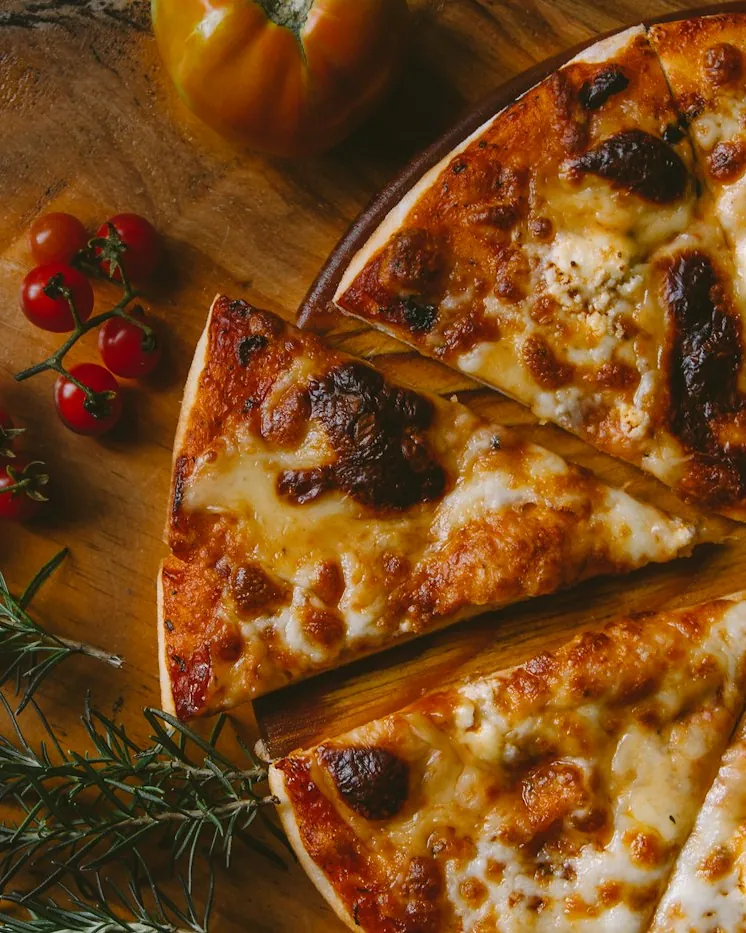
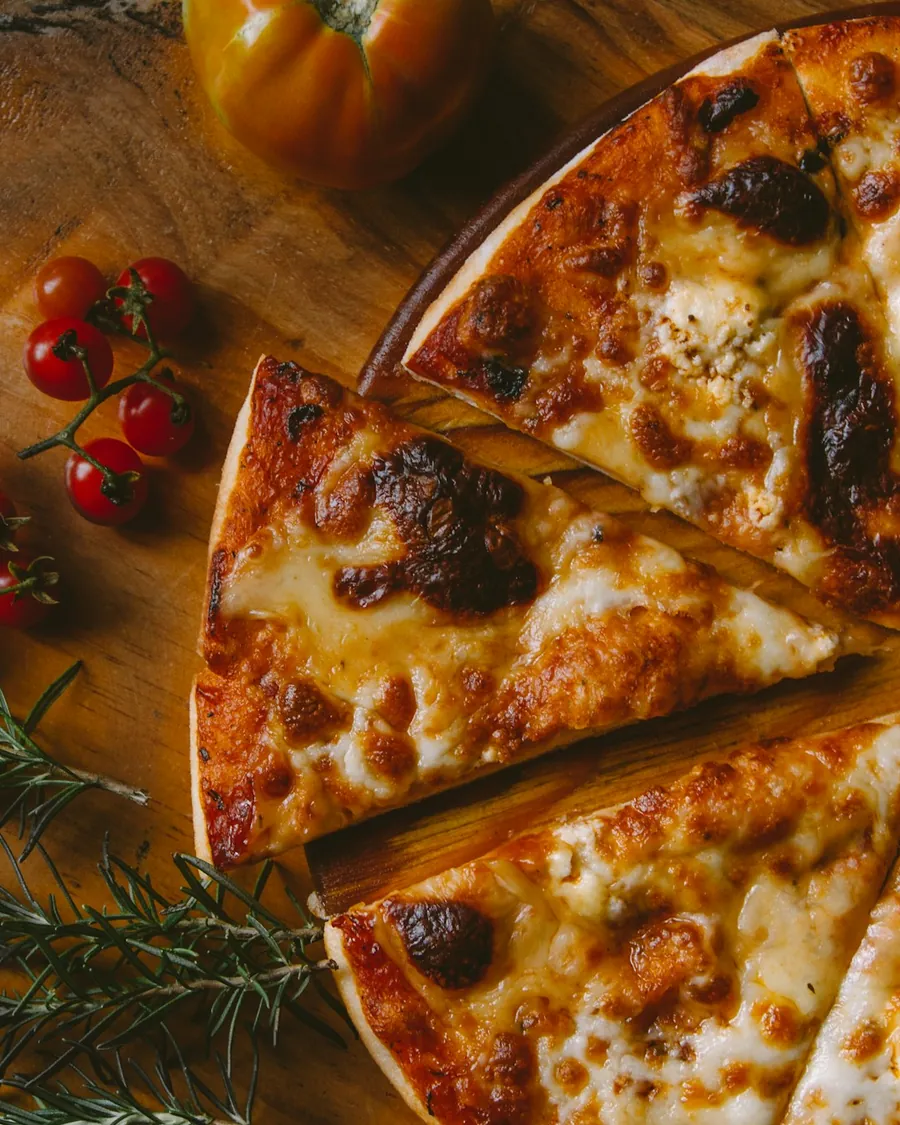
Replace blurry/off-topic images with sharp, on-topic Unsplash photos; add CREDITS.md

Changed region(s): [[0.2466, 0.7149, 0.2775, 0.746]]

diff --git a/index.html b/index.html
@@ -32,7 +32,7 @@
   <link rel="preload" as="style" href="https://fonts.googleapis.com/css2?family=Great+Vibes&family=Playfair+Display:ital,wght@0,400;0,500;0,600;1,400;1,500&family=Montserrat:ital,wght@0,400;0,500;0,600;1,400&display=swap">
   <link rel="stylesheet" href="https://fonts.googleapis.com/css2?family=Great+Vibes&family=Playfair+Display:ital,wght@0,400;0,500;0,600;1,400;1,500&family=Montserrat:ital,wght@0,400;0,500;0,600;1,400&display=swap">
   <link rel="preload" as="image" href="assets/images/cristel-hero.webp" imagesrcset="assets/images/cristel-hero-800.webp 800w, assets/images/cristel-hero.webp 1400w" imagesizes="(max-width: 899px) 90vw, 45vw">
-  <link rel="stylesheet" href="css/styles.css?v=2">
+  <link rel="stylesheet" href="css/styles.css?v=3">
   <script>document.documentElement.classList.add('js');</script>
 
   <script type="application/ld+json">
@@ -131,7 +131,7 @@
               alt="Cristel Monrose looking over her shoulder and smiling, with pink hydrangeas behind her.">
           </figure>
           <figure class="hero-prop" aria-hidden="true">
-            <img src="assets/images/prop-lemons-crop.webp" width="210" height="210" alt="">
+            <img src="assets/images/hero-fresh-pasta.webp" width="420" height="420" alt="">
           </figure>
           <p class="hero-vertical" aria-hidden="true">Celebrities · Cooking · Real Talk</p>
           <div class="hero-badge">
@@ -194,7 +194,7 @@
     <section class="quote-band" aria-label="A word from Cristel">
       <div class="wrap quote-grid">
         <figure class="quote-prop reveal" aria-hidden="true">
-          <img src="assets/images/prop-hydrangeas-crop.webp" width="235" height="462" alt="" loading="lazy" decoding="async">
+          <img src="assets/images/quote-rose-glasses.webp" width="720" height="900" alt="" loading="lazy" decoding="async">
         </figure>
         <blockquote class="reveal">
           <p>A red lip and a glass of rosé fix almost anything.</p>
@@ -256,9 +256,9 @@
             <p class="lede">The same warmth you see on <em>Buon Appetito with Cristel</em>, served at your gathering. Tell us about your occasion, and we’ll be in touch to talk through the menu, the setting and the details.</p>
             <a class="btn btn-primary" href="#catering-form">Request catering</a>
           </div>
-          <div class="catering-visual reveal" aria-hidden="true">
-            <figure class="cat-img cat-img-a"><img src="assets/images/prop-hydrangeas-crop.webp" width="235" height="462" alt="" loading="lazy" decoding="async"></figure>
-            <figure class="cat-img cat-img-b"><img src="assets/images/prop-lemons-crop.webp" width="210" height="210" alt="" loading="lazy" decoding="async"></figure>
+          <div class="catering-visual reveal">
+            <figure class="cat-img cat-img-a"><img src="assets/images/catering-grazing-table.webp" width="900" height="1125" alt="Stock photo: an overhead view of a grazing table with cheeses, figs, grapes, crackers and roasted vegetables." loading="lazy" decoding="async"></figure>
+            <figure class="cat-img cat-img-b"><img src="assets/images/catering-chef-plating.webp" width="640" height="640" alt="Stock photo: a chef in whites finishing plates for guests." loading="lazy" decoding="async"></figure>
             <span class="flag-stripe" aria-hidden="true"></span>
           </div>
         </div>
@@ -266,21 +266,25 @@
         <h3 class="sr-only">Events Cristel can cater</h3>
         <ul class="event-types">
           <li class="reveal">
+            <figure class="event-img"><img src="assets/images/event-private-dinner.webp" width="720" height="540" alt="Stock photo: a candlelit dinner table set with plates, glasses and flowers." loading="lazy" decoding="async"></figure>
             <span class="event-num" aria-hidden="true">i.</span>
             <h4>Private dinners</h4>
             <p>An intimate meal at home, made for the people around your table.</p>
           </li>
           <li class="reveal">
+            <figure class="event-img"><img src="assets/images/event-celebration.webp" width="720" height="540" alt="Stock photo: friends raising their glasses in a toast around a dinner table." loading="lazy" decoding="async"></figure>
             <span class="event-num" aria-hidden="true">ii.</span>
             <h4>Celebrations</h4>
             <p>Birthdays, anniversaries, showers and the milestones worth raising a glass to.</p>
           </li>
           <li class="reveal">
+            <figure class="event-img"><img src="assets/images/event-corporate.webp" width="720" height="540" alt="Stock photo: a long banquet table set with white linens, glassware and a floral centerpiece." loading="lazy" decoding="async"></figure>
             <span class="event-num" aria-hidden="true">iii.</span>
             <h4>Corporate events</h4>
             <p>Team dinners, client gatherings and brand events with a little Italian glamour.</p>
           </li>
           <li class="reveal">
+            <figure class="event-img"><img src="assets/images/event-holiday.webp" width="720" height="540" alt="Stock photo: a festive table with candles, citrus and a baked dish ready to share." loading="lazy" decoding="async"></figure>
             <span class="event-num" aria-hidden="true">iv.</span>
             <h4>Holidays &amp; seasonal gatherings</h4>
             <p>Family-style tables for the days when everyone comes home.</p>
@@ -433,7 +437,7 @@
       </div>
     </div>
     <div class="wrap">
-      <p class="footer-fine">Preview site for layout and brand review. Recipe and fashion cards are sample layouts, not Cristel’s published dishes or official show looks. Official brand photography is used with permission of the brand guidelines. Other stills are stock photos, credited in the data file.</p>
+      <p class="footer-fine">Preview site for layout and brand review. Recipe and fashion cards are sample layouts, not Cristel’s published dishes or official show looks. Photos of Cristel are official brand photography used with permission of the brand guidelines. All other photos are Unsplash stock images, credited in CREDITS.md.</p>
     </div>
   </footer>
 
@@ -447,7 +451,7 @@
     </div>
   </dialog>
 
-  <script src="js/data.js?v=2"></script>
-  <script src="js/app.js?v=2"></script>
+  <script src="js/data.js?v=3"></script>
+  <script src="js/app.js?v=3"></script>
 </body>
 </html>

diff --git a/js/data.js b/js/data.js
@@ -7,6 +7,7 @@
  * - Fashion "Shop the look" buttons use href: "#" and affiliate: "placeholder-..."
  *   until a brand partnership is live. Then set href to the affiliate URL
  *   and a stable affiliate id.
+ * - Photo sources and photographers are listed in CREDITS.md.
  * - Do not invent biographical facts. About copy is drawn from the official
  *   Cristel Monrose brand guidelines (November 2026).
  */
@@ -21,6 +22,7 @@ window.CRISTEL_DATA = {
       section: "showcase",
       diet: "Sample layout",
       image: "assets/images/dish-herb-pasta.webp",
+      imageSmall: "assets/images/dish-herb-pasta-800.webp",
       imageAlt: "Sample stock photo: three plates of herb pasta and glasses of red wine on a white tablecloth. Not a photo from the show.",
       excerpt: "Recipe coming soon — sample layout. Replace this card with one of Cristel’s pasta recipes.",
       credit: "Stock photo via Unsplash, used only to show the layout.",
@@ -118,8 +120,8 @@ window.CRISTEL_DATA = {
       timeNote: "sample time",
       section: "vegan",
       diet: "Vegan · sample",
-      image: "assets/images/dish-garden-salad.webp",
-      imageAlt: "Sample stock photo: a colorful chopped salad with avocado and fresh vegetables. Not a photo from the show.",
+      image: "assets/images/dish-green-salad.webp",
+      imageAlt: "Sample stock photo: a green salad of leaves and shaved cucumber in a wooden bowl with two spoons. Not a photo from the show.",
       excerpt: "Recipe coming soon — sample layout for a vegan, no-meat option.",
       credit: "Stock photo via Unsplash, used only to show the layout.",
       placeholder: true
@@ -132,8 +134,8 @@ window.CRISTEL_DATA = {
       timeNote: "sample time",
       section: "vegan",
       diet: "Meatless · sample",
-      image: "assets/images/dish-tomato-rotini.webp",
-      imageAlt: "Sample stock photo: rotini with tomatoes and basil on a white wooden table. Not a photo from the show.",
+      image: "assets/images/dish-tomato-basil-rotini.webp",
+      imageAlt: "Sample stock photo: a plate of rotini with tomato and fresh basil leaves. Not a photo from the show.",
       excerpt: "Recipe coming soon — sample layout for a meatless pasta.",
       credit: "Stock photo via Unsplash, used only to show the layout.",
       placeholder: true
@@ -144,7 +146,7 @@ window.CRISTEL_DATA = {
       id: "sample-studio-heels",
       title: "Studio heels",
       titlePrefix: "Sample look",
-      image: "assets/images/look-heels.jpg",
+      image: "assets/images/look-heels.webp",
       imageAlt: "Sample stock photo: a pair of cream pointed heels by a window. Not a photo of an outfit from the show.",
       note: "Placeholder for an accessory or outfit from Buon Appetito with Cristel. Replace with the real look, notes, and affiliate links.",
       items: [
@@ -157,28 +159,28 @@ window.CRISTEL_DATA = {
       id: "sample-gold-hour",
       title: "Gold hour",
       titlePrefix: "Sample look",
-      image: "assets/images/look-gold-hoops.webp",
-      imageAlt: "Detail from Cristel Monrose’s official brand photography: a gold hoop earring and a gold chain at the neck. Used here as a placeholder for a jewelry look, not a confirmed show outfit.",
+      image: "assets/images/look-gold-hoops-flatlay.webp",
+      imageAlt: "Sample stock photo: a pair of gold hoop earrings resting on a pink ribbed dish. Not jewelry from the show.",
       note: "Placeholder for jewelry worn on the show — hoops, chains, or a daily gold piece. Replace with the real look and affiliate links.",
       items: [
         { name: "Gold hoop earrings", href: "#", affiliate: "placeholder-hoops" },
         { name: "Everyday gold chain", href: "#", affiliate: "placeholder-chain" }
       ],
-      credit: "Detail from official Cristel Monrose brand photography.",
+      credit: "Stock photo via Unsplash, used only to show the layout.",
       placeholder: true
     },
     {
       id: "sample-red-lip",
       title: "Red lip, rosé night",
       titlePrefix: "Sample look",
-      image: "assets/images/look-lemons.webp",
-      imageAlt: "Lemons and pink hydrangeas in a glass vase, from Cristel Monrose’s official brand photography. Used here as a placeholder for a beauty and table look, not a confirmed show outfit.",
+      image: "assets/images/look-red-lip.webp",
+      imageAlt: "Sample stock photo: a red lipstick in a gold case with dried rose petals and a gold chain. Not a product from the show.",
       note: "Placeholder for a beauty and table look from the show. Replace with the real products, notes, and affiliate links.",
       items: [
         { name: "A perfect red lip", href: "#", affiliate: "placeholder-lipstick" },
         { name: "A glass of rosé", href: "#", affiliate: "placeholder-wine" }
       ],
-      credit: "Detail from official Cristel Monrose brand photography.",
+      credit: "Stock photo via Unsplash, used only to show the layout.",
       placeholder: true
     }
   ]

diff --git a/css/styles.css b/css/styles.css
@@ -531,3 +531,29 @@ a { color: var(--red-wine); text-underline-offset: 0.2em; text-decoration-thickn
   .js .dishes-arch > .reveal, .js .looks > .reveal { opacity: 1; transform: none; }
 }
 @media (max-width: 759px) { p.rail-hint { display: flex; } }
+
+/* ---- v3: real photography for catering events ---- */
+.event-img { overflow: hidden; background: var(--rose-soft); }
+.event-img img { width: 100%; height: 100%; object-fit: cover; transition: transform 1.1s var(--ease); }
+.event-types li:hover .event-img img { transform: scale(1.05); }
+@media (max-width: 1099px) {
+  .event-types li { grid-template-columns: 2.25rem minmax(0, 1fr) 6.5rem; column-gap: 1rem; align-items: start; }
+  .event-num { grid-column: 1; grid-row: 1 / span 2; }
+  .event-types h4 { grid-column: 2; grid-row: 1; }
+  .event-types p { grid-column: 2; grid-row: 2; }
+  .event-img { grid-column: 3; grid-row: 1 / span 2; aspect-ratio: 1; border-radius: 50%; }
+}
+@media (min-width: 1100px) {
+  .event-types li { border-top: 0; padding-top: 0; }
+  .event-img { aspect-ratio: 4 / 3; margin-bottom: 1.1rem; }
+  .event-num { border-top: 1px solid var(--red-wine); padding-top: .9rem; }
+}
+.catering-visual { max-width: 27rem; min-height: 23rem; }
+.cat-img-a { width: 66%; }
+.cat-img-b { width: 52%; }
+@media (min-width: 900px) { .catering-visual { max-width: 32rem; min-height: 33rem; } }
+.about-visual { max-width: 28rem; }
+.event-types li { align-content: start; }
+@media (max-width: 899px) {
+  .dishes-editorial > .dish:not(.dish-feature) .link-btn { font-size: .66rem; letter-spacing: .1em; white-space: nowrap; }
+}

diff --git a/js/app.js b/js/app.js
@@ -54,6 +54,8 @@
     var imgWrap = el("div", { class: "dish-media" });
     imgWrap.appendChild(el("img", {
       src: recipe.image,
+      srcset: recipe.imageSmall ? recipe.imageSmall + " 800w, " + recipe.image + " 1400w" : null,
+      sizes: recipe.imageSmall ? "(max-width: 899px) 92vw, 58vw" : null,
       alt: recipe.imageAlt,
       width: "900",
       height: "1125",

diff --git a/CREDITS.md b/CREDITS.md
@@ -1,0 +1,28 @@
+# Image credits
+
+Photos of **Cristel Monrose** (`cristel-hero*.webp`, `cristel-about.webp`, `og-cover.*`) are official brand photography from the *Cristel Monrose — Brand Guidelines* (v1.0, November 2026).
+
+All other photos are from **Unsplash** and are used under the [Unsplash License](https://unsplash.com/license) (free to use, no permission needed; credit given here as a courtesy). They are downloaded and self-hosted as optimized WebP files in `assets/images/`; nothing is hotlinked. Recipe and fashion photos are **sample layout images only**, not dishes or looks from *Buon Appetito with Cristel*. Catering photos are illustrative stock photos, not photos of Cristel’s events.
+
+| Section | File | Shows | Photographer | Source |
+|---|---|---|---|---|
+| Hero (round accent) | `hero-fresh-pasta.webp` | Fresh tagliatelle nests with eggs and flour | [Margaret Jaszowska](https://unsplash.com/@margaret_jaszowska) | [Unsplash](https://unsplash.com/photos/white-pasta-on-stainless-steel-bowl-z2BD82uNN_A) |
+| Recipes: Herb pasta at the table (sample) | `dish-herb-pasta.webp, dish-herb-pasta-800.webp` | Three plates of pasta with red wine | [Brooke Lark](https://unsplash.com/@brookelark) | [Unsplash](https://unsplash.com/photos/three-round-white-plates-with-pasta-near-two-glass-cuups--F_5g8EEHYE) |
+| Recipes: Rosemary pizza al taglio (sample) | `dish-rosemary-pizza.webp` | Pizza with cherry tomatoes and rosemary | [Ivan Torres](https://unsplash.com/@iavnt) | [Unsplash](https://unsplash.com/photos/cheese-pizza-with-tomatoes-and-rosemary-MQUqbmszGGM) |
+| Recipes: Berry lattice tarts (sample) | `dish-berry-tarts.webp` | Two berry lattice pies | [Brooke Lark](https://unsplash.com/@brookelark) | [Unsplash](https://unsplash.com/photos/baked-pie-near-white-ceramic-teapot-of0pMsWApZE) |
+| Quote band | `quote-rose-glasses.webp` | Glasses of rosé wine from above | [Corina Rainer](https://unsplash.com/@corina_rainer_) | [Unsplash](https://unsplash.com/photos/a-group-of-gold-coins-Sv-eBEGLYhM) |
+| 10 Minutes or Less: Tomato and ricotta toast (sample) | `dish-tomato-toast.webp` | Toast with ricotta and tomatoes | [Calum Lewis](https://unsplash.com/@calumlewis) | [Unsplash](https://unsplash.com/photos/dish-with-tomato-salad-toppings-rPkgYDh2bmo) |
+| 10 Minutes or Less: Chopped garden salad (sample) | `dish-garden-salad.webp` | Chopped vegetable salad | [Nadine Primeau](https://unsplash.com/@nadineprimeau) | [Unsplash](https://unsplash.com/photos/close-up-photo-of-vegetable-salad--ftWfohtjNw) |
+| 10 Minutes or Less: Cherry tomato rotini (sample) | `dish-tomato-rotini.webp` | Rotini with cherry tomatoes and basil | [Aleksandra Tanasiienko](https://unsplash.com/@tasikola_pl) | [Unsplash](https://unsplash.com/photos/pasta-with-sauce-on-white-ceramic-plate-0y6eMd8vevA) |
+| Vegan & Meatless: Market vegetable bowl (sample) | `dish-market-bowl.webp` | Vegan vegetable and chickpea bowl | [Anna Pelzer](https://unsplash.com/@annapelzer) | [Unsplash](https://unsplash.com/photos/bowl-of-vegetable-salads-IGfIGP5ONV0) |
+| Vegan & Meatless: Everyday green salad (sample) | `dish-green-salad.webp` | Green salad in a wooden bowl | [Mads Eneqvist](https://unsplash.com/@madseneqvist) | [Unsplash](https://unsplash.com/photos/a-wooden-bowl-filled-with-a-salad-and-two-spoons-3YRxJW2GQCc) |
+| Vegan & Meatless: Tomato basil rotini (sample) | `dish-tomato-basil-rotini.webp` | Rotini with tomato and basil | [Divani](https://unsplash.com/@heydivani) | [Unsplash](https://unsplash.com/photos/pasta-dish-on-white-ceramic-plate-s0duM7x1yuA) |
+| Fashion: Look 1, Studio heels (sample) | `look-heels.webp` | Cream pointed heels | [Emily Pottiger](https://unsplash.com/@anadventure) | [Unsplash](https://unsplash.com/photos/white-textured-high-heeled-pumps-Zx76sbAndc0) |
+| Fashion: Look 2, Gold hour (sample) | `look-gold-hoops-flatlay.webp` | Gold hoop earrings on a pink dish | [Daihana Monares](https://unsplash.com/@daihana) | [Unsplash](https://unsplash.com/photos/gold-and-silver-rings-on-pink-and-white-striped-textile-oWFPDjxuyUM) |
+| Fashion: Look 3, Red lip, rosé night (sample) | `look-red-lip.webp` | Red lipstick with rose petals and a gold chain | [Anastasia Anastasia](https://unsplash.com/@anastasia3385437) | [Unsplash](https://unsplash.com/photos/gold-and-red-lipstick-on-red-textile-7TEIejvt0rU) |
+| Catering (arch) | `catering-grazing-table.webp` | Grazing table from above | [Brooke Lark](https://unsplash.com/@brookelark) | [Unsplash](https://unsplash.com/photos/flat-lay-photography-of-variety-of-fruits-RrzeCGujVfU) |
+| Catering (round) | `catering-chef-plating.webp` | Chef plating dishes for guests | [Lucas Law](https://unsplash.com/@lucaslaw__) | [Unsplash](https://unsplash.com/photos/a-person-in-a-chefs-uniform-preparing-food-on-a-table-CPc-PzFL9H4) |
+| Catering: Private dinners | `event-private-dinner.webp` | Candlelit dinner table | [Zac Cain](https://unsplash.com/@zaccain) | [Unsplash](https://unsplash.com/photos/a-table-is-set-with-candles-and-plates-of-food-HCFqhYC_Hvw) |
+| Catering: Celebrations | `event-celebration.webp` | Friends toasting at a dinner table | [Sebastian Coman Photography](https://unsplash.com/@sebastiancoman) | [Unsplash](https://unsplash.com/photos/group-of-people-sitting-on-chair-in-front-of-table-with-plates-and-drinking-glasses-nQqNjfOVvrs) |
+| Catering: Corporate events | `event-corporate.webp` | Long banquet table with floral centerpiece | [CHUTTERSNAP](https://unsplash.com/@chuttersnap) | [Unsplash](https://unsplash.com/photos/elegant-table-setting-with-floral-centerpiece-aEnH4hJ_Mrs) |
+| Catering: Holidays & seasonal gatherings | `event-holiday.webp` | Festive shared table | [Zac Cain](https://unsplash.com/@zaccain) | [Unsplash](https://unsplash.com/photos/a-table-is-set-with-plates-silverware-and-a-bottle-of-wine-SzkztR7J3os) |

diff --git a/README.md b/README.md
@@ -48,7 +48,7 @@ Navigation:
 - Tagline, mission, positioning, and About copy
 - Voice lines: “Pull up a chair,” “Salt your pasta water like the sea,” “A red lip and a glass of rosé fix almost anything,” sign-off “Buon appetito!”
 - Palette, typography, wordmark rules, and the Italian-flag stripe
-- Official photographs of Cristel (hero, about, gold-hoop detail, lemon-and-hydrangea still)
+- Official photographs of Cristel (hero, about)
 
 **Placeholder — clearly labeled, ready to replace**
 
@@ -56,7 +56,7 @@ Navigation:
 - All fashion/accessory “looks.” They are not outfits from the show. Shop buttons use `href="#"` and `data-affiliate="placeholder-..."`.
 - The catering inquiry form until `CATERING_EMAIL` is set (shows “Inquiries open soon”).
 - The newsletter form. It is marked “Preview only — this form is not connected yet” and does not send anything.
-- Food stills on recipe cards, and the cream heels photo, are Unsplash stock — not photos from the show.
+- Food, fashion and catering photos are Unsplash stock — not photos from the show. Every source and photographer is listed in [CREDITS.md](CREDITS.md).
 
 The preview banner, sample badges, and footer also state this clearly. Search engines are asked not to index the preview (`noindex` and `robots.txt`).
 
